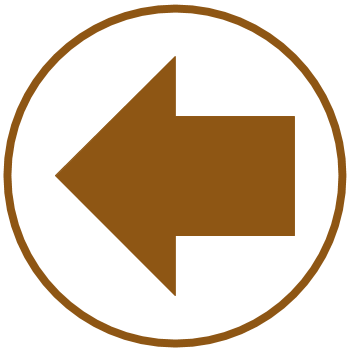
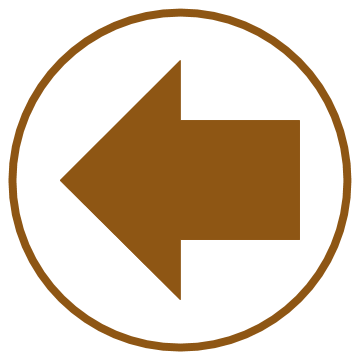
edit back button

diff --git a/guildChoice.html b/guildChoice.html
@@ -322,7 +322,7 @@
                 <div id="SpecializationSelector" class="specializationOptions">
                     <div id="SpecializationCenteredColumn">
                     </div>
-                    <img src="resources/BackButton.png" style="height: 7vw">
+                    <img src="resources/BackButton.png" style="height: 5vw">
                 </div>
             </div>
         </div>
